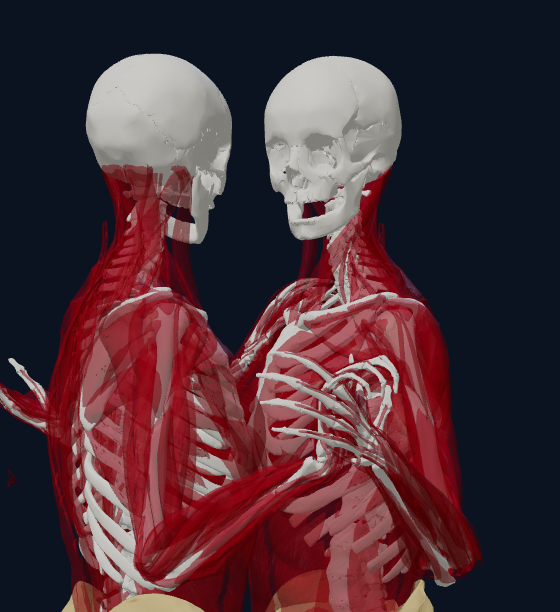
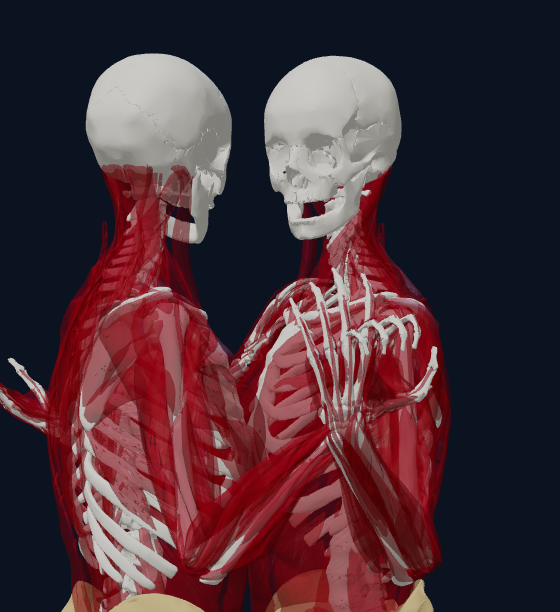
feat(#179): attitude sur le côté — mains levées à hauteur d'épaule, dressées, paume du guideur vers sa droite
Candidat ?essai=mainsCote, inerte sans le paramètre (précisions du propriétaire, 23 novembre 2026) :
- CADRE.handsSide : le milieu des mains à hauteur d'épaule (point des mains 1 cm sous la moyenne des épaules) ;
- GRIP.upright : la paume du guideur vers sa droite, ses doigts vers le ciel (son poignet s'articule) ; la main
  de la suiveuse contre la sienne, aussi dressée, vers le côté de son pouce ; coudes vers le bas ;
- scripts/mesure_essai_mains.mjs : hauteur, orientation des paumes et des doigts, poignets, par attitude.
Mesuré sur place : milieu des mains 0,2 cm sous les épaules, paume du guideur à 9° de sa droite, ses doigts à la
verticale ; ceux de la suiveuse à 18°, son poignet au bout de sa course. Dossier, règles (R36) et specs à jour.

diff --git a/src/upperBody.ts b/src/upperBody.ts
@@ -10,6 +10,7 @@ import * as THREE from "three";
 import type { RigHandle } from "./anatomy";
 import { ARM_JOINTS, TORSO_JOINTS } from "./rigJoints";
 import { CADRE_SITES, solveArm } from "./cadre";
+import { essai } from "./essais";
 
 export const UPPER_BODY_URL = `${import.meta.env.BASE_URL}anatomy_upper.glb`;
 
@@ -94,7 +95,12 @@ interface Arm {
  * `shift`: her palm from his, towards his index (m); `gap`: between the two palms (m); `wrist`: how far her wrist
  * may bend away from the forearm's axis (rad); `swivel`: how far her hand may turn on his palm, away from the
  * line to his index, towards where her forearm comes from (rad). */
-export const GRIP = { shift: 0.012, gap: 0.004, wrist: 1.0, swivel: 0.7 };
+export const GRIP = { shift: 0.012, gap: 0.004, wrist: 1.0, swivel: 0.7,
+  /** Hands held up at the couple's side (#179, candidate `?essai=mainsCote`; owner, 23 November 2026): the
+   * leader's palm faces his right, both hands point to the sky. `shift`: her palm from his towards his thumb's
+   * side, so that her fingers close around his index (m); `rise`: her palm above his (m); `elbow`: where each
+   * elbow tends, from its shoulder, in the dancer's chest frame (x away from the body's midline): down. */
+  upright: { shift: 0.03, rise: 0, elbow: [0.25, -1, 0.1] as V3 } };
 
 export interface ArmState {
   target: THREE.Vector3; palm: THREE.Vector3; elbow: THREE.Vector3; pronation: number; error: number;
@@ -207,8 +213,16 @@ export class UpperBody {
       const shape = hold === "hands" ? (follower ? HAND_SHAPES.closes : HAND_SHAPES.offers) : hold === "back" ? HAND_SHAPES.flat : HAND_SHAPES.relaxed;
       // #179: the follower's hand takes the leader's, as his is posed (his layer of this image or of the last).
       const his = hold === "hands" && follower ? (partner?.upperBody as UpperBody | undefined)?.hand("L") : undefined;
+      // #179, candidate: the joined hands held up, both upright, the elbows down (a little outwards).
+      const upright = hold === "hands" && essai("mainsCote");
+      const low = () => this.arms[s].arm.getWorldPosition(new THREE.Vector3())
+        .add(new THREE.Vector3((s === "L" ? 1 : -1) * GRIP.upright.elbow[0], GRIP.upright.elbow[1], GRIP.upright.elbow[2]).transformDirection(r.chest.matrixWorld));
       let posed: Omit<ArmState, "hold" | "shape">;
-      if (his) {
+      if (his && upright) {
+        // Her hand against his, as upright as his; her palm towards his thumb's side, her fingers around his index.
+        const at = his.palm.clone().addScaledVector(his.radial, GRIP.upright.shift).addScaledVector(his.fingers, GRIP.upright.rise).addScaledVector(his.normal, GRIP.gap);
+        posed = this.take(this.arms[s], at, his.normal.clone().negate(), his.fingers, low());
+      } else if (his) {
         // Her fingers go towards his index; her hand may turn on his palm towards the line of her own forearm.
         const facing = his.normal.clone().negate(), forearm = target.clone().sub(rigElbow);
         const natural = forearm.addScaledVector(facing, -forearm.dot(facing));
@@ -216,6 +230,10 @@ export class UpperBody {
           ? Math.max(-GRIP.swivel, Math.min(GRIP.swivel, Math.atan2(new THREE.Vector3().crossVectors(his.radial, natural).dot(facing), his.radial.dot(natural)))) : 0;
         const along = his.radial.clone().applyAxisAngle(facing, swivel);
         posed = this.take(this.arms[s], his.palm.clone().addScaledVector(his.radial, GRIP.shift).addScaledVector(his.normal, GRIP.gap), facing, along, rigElbow);
+      } else if (upright && !follower) {
+        // The leader's hand: the palm on the rig's point, facing his right, the fingers to the sky.
+        const right = new THREE.Vector3(-1, 0, 0).transformDirection(r.chest.matrixWorld).setY(0).normalize();
+        posed = this.take(this.arms[s], target, right, new THREE.Vector3(0, 1, 0), low());
       } else posed = this.pose(this.arms[s], target, rigElbow, normal);
       this.state[s] = { ...posed, target, hold, shape };
       this.shape(s, shape);

diff --git a/src/cadre.ts b/src/cadre.ts
@@ -41,8 +41,10 @@ export const CADRE = {
    * Below that depth the hand is on its way: no jump between the back and the open frame. */
   leave: 0.05,
   /** #179 (election, `?essai=`): the joined hands carried to the couple's side instead of between the two
-   * chests. `out`: metres outwards from the shoulders' midpoint; `drop`: metres lower than `handsDrop`. */
-  handsSide: { out: 0.2, drop: 0 }, handsLow: { out: 0.14, drop: 0.14 },
+   * chests. `out`: metres outwards from the shoulders' midpoint; `drop`: metres lower than `handsDrop` (negative:
+   * higher). `handsSide` (owner, 23 November 2026): the middle of the hands at shoulder height, so the palm's
+   * centre a little under the shoulders and the fingers above them. */
+  handsSide: { out: 0.2, drop: -0.05 }, handsLow: { out: 0.14, drop: 0.14 },
 };
 
 const Y_DOWN = new THREE.Vector3(0, -1, 0);

diff --git a/src/essais.ts b/src/essais.ts
@@ -13,8 +13,9 @@
 export const ESSAIS = {
   /** Témoin : ne change rien. Sert à filmer le comportement actuel image par image hors du mode paire. */
   temoin: "témoin : comportement actuel",
-  /** #179 : les mains jointes tenues sur le côté du couple, à hauteur d'épaule. */
-  mainsCote: "mains jointes sur le côté du couple, à hauteur d'épaule",
+  /** #179 : les mains jointes tenues sur le côté du couple, leur milieu à hauteur d'épaule, dressées : paume du
+   * guideur vers sa droite, les deux mains vers le ciel (précisions du 23 novembre 2026). */
+  mainsCote: "mains jointes sur le côté du couple, leur milieu à hauteur d'épaule, dressées",
   /** #179 : les mains jointes sur le côté du couple, plus bas et plus près, coudes détendus. */
   mainsBasses: "mains jointes sur le côté du couple, plus bas",
 } as const;

diff --git a/docs/regles-proprietaire.md b/docs/regles-proprietaire.md
@@ -60,7 +60,7 @@ seuil chiffré : ils n'y figurent pas.
 | R19 | Cadre leader/suiveur : points de contact (avant-bras, biceps, omoplate, bassin, aisselle, coude, épaule, plexus) et intentions de guidage | Mains qui se rejoignent, main D du leader sur l'omoplate du suiveur, contraintes de contact | [cadre](cadre/spec-implementation.md) (#40) | oui pour les bras (#77 : mains sur l'omoplate et mains jointes, IK) ; contraintes sur bustes et bassins à venir |
 | R20 | « Ces points de contact vont ajouter des contraintes qui vont aider à converger vers les bons mouvements de danse » | Les contacts contraignent bras, bustes et bassins | [cadre](cadre/spec-implementation.md) | non |
 | R35 | Le bras droit du guideur ne se baisse pas (22 nov.) | Dans toutes les figures en paire, la main droite du guideur reste au-dessus de sa taille, même hors du dos de la suiveuse ; elle quitte le dos sans saut | [cadre](cadre/spec-implementation.md#le-bras-droit-du-guideur-ne-se-baisse-pas-178-22-novembre-2026) (#178) | oui (`test_cadre.mjs` : jamais sous −15 cm dans le repère de sa poitrine ; saut du coude 31 → 9 cm) |
-| R36 | La main droite de la suiveuse dans la main gauche du guideur, en position fermée : plusieurs attitudes (hauteur du coude, ouverture) ; prise : phalanges serrées, pouce ouvert presque à angle droit, main de la suiveuse posée en travers de celle du guideur (bas de sa paume au bord de la main du guideur), ses phalanges refermées autour de l'index du guideur, pouces croisés (22 nov.) | Mains visibles, hors des cages thoraciques ; prise conforme sur gros plan | [dossier](elections/2026-11-22-mains/README.md) (#179) | attitudes filmables (`?essai=`) ; doigts et poignet articulés avec `haut=1`, main de la suiveuse en travers de celle du guideur ([spec](spec-haut-du-corps.md)) ; à juger sur gros plans |
+| R36 | La main droite de la suiveuse dans la main gauche du guideur, en position fermée : plusieurs attitudes (hauteur du coude, ouverture) ; prise : phalanges serrées, pouce ouvert presque à angle droit, main de la suiveuse posée en travers de celle du guideur (bas de sa paume au bord de la main du guideur), ses phalanges refermées autour de l'index du guideur, pouces croisés (22 nov.) ; dans l'attitude sur le côté, les mains se lèvent légèrement au-dessus de l'épaule (leur milieu à hauteur d'épaule), la paume du guideur regarde vers sa droite et les deux mains pointent vers le ciel, à quelques degrés près (23 nov.) | Mains visibles, hors des cages thoraciques ; prise conforme sur gros plan | [dossier](elections/2026-11-22-mains/README.md) (#179) | attitudes filmables (`?essai=`) ; doigts et poignet articulés avec `haut=1`, main de la suiveuse en travers de celle du guideur ([spec](spec-haut-du-corps.md)) ; attitude sur le côté (`?essai=mainsCote`, `scripts/mesure_essai_mains.mjs`) : milieu des mains à 0,2 cm sous les épaules, paume du guideur à 9° de sa droite, ses doigts à la verticale, ceux de la suiveuse à 18° ; à juger sur gros plans |
 | R37 | L'avant-bras ou la main gauche de la suiveuse est posé sur l'épaule droite du guideur, contre le devant ou le côté de l'épaule ; son coude gauche cherche le contact avec le bras droit du guideur, sur lequel elle s'appuie quand il l'élève par l'épaule ou l'aisselle (boléro, etc.) (22 nov.) | Main sur l'épaule quand elle est à portée ; coude près du bras du guideur | [cadre](cadre/spec-implementation.md) (#180) | oui pour la pose (`test_cadre.mjs` : coude à 10–11 cm de l'axe du bras en moyenne) ; l'appui quand le guideur l'élève reste à faire |
 
 ## Musique

diff --git a/docs/elections/2026-11-22-mains/README.md b/docs/elections/2026-11-22-mains/README.md
@@ -18,17 +18,35 @@ Position fermée : bustes face à face, pieds proches. Dossier ouvert le 22 nove
   - modèle des doigts : ceux de la suiveuse dans le tour de salsa du projet Blender de ReCoDanse, où ils se
     referment autour du majeur du guideur ; ici, autour de son index.
 
+## Précisions du propriétaire pour l'attitude sur le côté (23 novembre 2026)
+
+Après la première planche (B était alors 6 cm sous les épaules, la main de la suiveuse en travers de celle du guideur) :
+
+- les mains se lèvent légèrement au-dessus de l'épaule : leur milieu est à hauteur d'épaule ;
+- la paume du guideur regarde vers sa droite ;
+- les deux mains pointent vers le ciel, à quelques degrés près.
+
+Fait dans le candidat B (`?essai=mainsCote`). Mesures sur place (`ESSAI=mainsCote node scripts/mesure_essai_mains.mjs`) :
+
+| | Mesure |
+|---|---|
+| Milieu des mains, par rapport à la moyenne des deux épaules | 0,2 cm dessous ; haut des doigts 9 cm au-dessus |
+| Paume du guideur, par rapport à sa droite | à 9° |
+| Doigts du guideur, par rapport à la verticale | 0° (au plus 1° dans les figures) |
+| Doigts de la suiveuse, par rapport à la verticale | 18° (11° à 31° dans les figures) : son poignet est au bout de sa course (57°) |
+| Paumes | face à face à 12° près ; centres à 3 cm, la sienne vers le pouce du guideur |
+
 ## Trois attitudes filmables
 
 Kizomba, sur place, 90 bpm, haut du corps anatomique (`haut=1`), muscles affichés. Les interrupteurs `?essai=` sont
 inertes sans le paramètre : l'application ne change pas. Images refaites le 23 novembre 2026, avec la prise posée
-(doigts et poignet articulés).
+(doigts et poignet articulés) ; celles de B, après les précisions ci-dessus.
 
 | A — aujourd'hui | B — `?essai=mainsCote` | C — `?essai=mainsBasses` |
 |---|---|---|
 | ![A](mains-A-entre-les-poitrines.gif) | ![B](mains-B-sur-le-cote.gif) | ![C](mains-C-sur-le-cote-plus-bas.gif) |
 | ![A](mains-A-entre-les-poitrines.png) | ![B](mains-B-sur-le-cote.png) | ![C](mains-C-sur-le-cote-plus-bas.png) |
-| Entre les deux épaules, 6 cm sous elles : mains cachées entre les cages thoraciques, coudes repliés jusqu'à 27°. | 20 cm vers l'extérieur du couple, à la même hauteur : mains visibles devant les épaules. | 14 cm vers l'extérieur, 14 cm plus bas : mains à hauteur de taille, avant-bras presque horizontaux, coudes détendus. |
+| Entre les deux épaules, 6 cm sous elles : mains cachées entre les cages thoraciques, coudes repliés jusqu'à 27°. | 20 cm vers l'extérieur du couple, le milieu des mains à hauteur d'épaule : mains dressées, paume du guideur vers sa droite, coudes vers le bas. | 14 cm vers l'extérieur, 14 cm plus bas : mains à hauteur de taille, avant-bras presque horizontaux, coudes détendus. |
 
 La caméra est du côté des mains jointes : le guideur est à droite de l'image, la suiveuse à gauche. Les étiquettes de
 rôle du bas de l'image, fixes, diraient l'inverse : elles sont rognées.
@@ -64,5 +82,6 @@ d'entrer dans la main de l'autre.
 ## À trancher par le propriétaire
 
 - Quelles attitudes garder (A, B, C, d'autres), et laquelle par défaut en kizomba. Question posée le 23 novembre 2026
-  avec ces images ; proposition de l'agent : B par défaut, C gardée comme attitude, A retirée.
+  avec ces images ; proposition de l'agent : B par défaut, C gardée comme attitude, A retirée. Le propriétaire a
+  corrigé B (ci-dessus) ; le choix de l'attitude par défaut reste à confirmer.
 - La prise, une fois posée : à juger sur des gros plans.

diff --git a/docs/spec-haut-du-corps.md b/docs/spec-haut-du-corps.md
@@ -68,6 +68,15 @@ Ces amplitudes sont des paramètres de ce modèle, pas des normes cliniques ni d
   le bas de sa paume au bord de la main du guideur, ses doigts vers son index, son pouce vers le sien. Son poignet
   s'articule pour cela (jusqu'à 57° hors de l'axe de l'avant-bras), et sa main peut tourner de 40° sur la paume du
   guideur vers la ligne de son propre avant-bras.
+- **Attitude sur le côté, mains dressées** (candidat `?essai=mainsCote`, `GRIP.upright` ; précisions du propriétaire,
+  23 novembre 2026) : la paume du guideur est au point du rig, tournée vers sa droite, ses doigts vers le ciel ; son
+  poignet s'articule lui aussi. La main de la suiveuse se pose contre la sienne, aussi dressée que la sienne, 3 cm
+  vers le côté de son pouce, pour que ses doigts se referment autour de son index. Les deux coudes tendent vers le
+  bas, un peu vers l'extérieur. Mesures (`ESSAI=mainsCote node scripts/mesure_essai_mains.mjs`, sur place) : milieu
+  des mains 0,2 cm sous la moyenne des épaules, haut des doigts 9 cm au-dessus ; paume du guideur à 9° de sa droite,
+  ses doigts à la verticale, poignet plié de 35° à 38° ; doigts de la suiveuse à 18° de la verticale, son poignet au
+  bout de sa course (57°), paumes face à face à 12° près. Dans les figures : doigts du guideur à 1° au plus, ceux de
+  la suiveuse de 11° à 31°.
 - La caméra s'approche jusqu'à 35 cm quand l'option est active (1,8 m sinon), pour voir les mains.
 
 ## Mesures (`scripts/test_upper_body.mjs`, GLB réel, seizième de temps, kizomba)

diff --git a/CONTEXT.md b/CONTEXT.md
@@ -18,6 +18,12 @@ dépôt (ce fichier, `docs/spec-*.md`, `docs/adr/*`, `docs/TASKS.md`, README) et
   Fait dans le haut du corps anatomique : doigts articulés, formes de main, poignet de la suiveuse articulé, sa main
   posée en travers de celle du guideur ([spec](docs/spec-haut-du-corps.md)). Reste : son poignet va au bout de son
   amplitude, les doigts ne se serrent pas, et le rig stylisé (sans `haut=1`) n'a pas de doigts.
+  **23 novembre** : question posée au propriétaire avec planches et films (A entre les poitrines, B sur le côté, C plus
+  bas). Il a précisé l'attitude sur le côté : mains levées légèrement au-dessus de l'épaule (leur milieu à hauteur
+  d'épaule), paume du guideur vers sa droite, les deux mains vers le ciel à quelques degrés près. C'est fait dans le
+  candidat `?essai=mainsCote` (`CADRE.handsSide`, `GRIP.upright`, coudes vers le bas ; mesures :
+  `scripts/mesure_essai_mains.mjs`). Reste : la main de la suiveuse penche de 18°, son poignet au bout de sa course ;
+  le choix de l'attitude par défaut n'est pas fait (PR #181 en brouillon).
 - **Règle R37 (#180)** : la main gauche de la suiveuse sur l'épaule droite du guideur (devant et côté), son coude vers
   le bras droit du guideur (`CADRE_SITES.shoulderR`, `armR`) : coude à 10 à 11 cm de l'axe de son bras en moyenne.
 

diff --git a/docs/cadre/spec-implementation.md b/docs/cadre/spec-implementation.md
@@ -379,6 +379,12 @@ travers de celle du guideur, ses phalanges refermées autour de l'index du guide
 attitudes sont filmables (`?essai=mainsCote`, `?essai=mainsBasses`, inertes sans le paramètre) ; l'application ne
 change pas tant qu'il n'a pas tranché : [dossier](../elections/2026-11-22-mains/README.md).
 
+Précision du 23 novembre 2026 pour l'attitude sur le côté (`mainsCote`, `CADRE.handsSide`) : les mains se lèvent
+légèrement au-dessus de l'épaule, leur milieu à hauteur d'épaule. Le point des mains jointes est donc 1 cm sous la
+moyenne des deux épaules (le centre de la paume ; le milieu de la main est plus haut), 20 cm vers l'extérieur du
+couple. L'orientation des mains (paume du guideur vers sa droite, mains vers le ciel) relève du haut du corps
+anatomique : [spec](../spec-haut-du-corps.md).
+
 ## La main gauche de la suiveuse sur l'épaule droite du guideur (#180, 22 novembre 2026)
 
 Règle du propriétaire : l'avant-bras ou la main gauche de la suiveuse est posé sur l'épaule droite du guideur, contre
